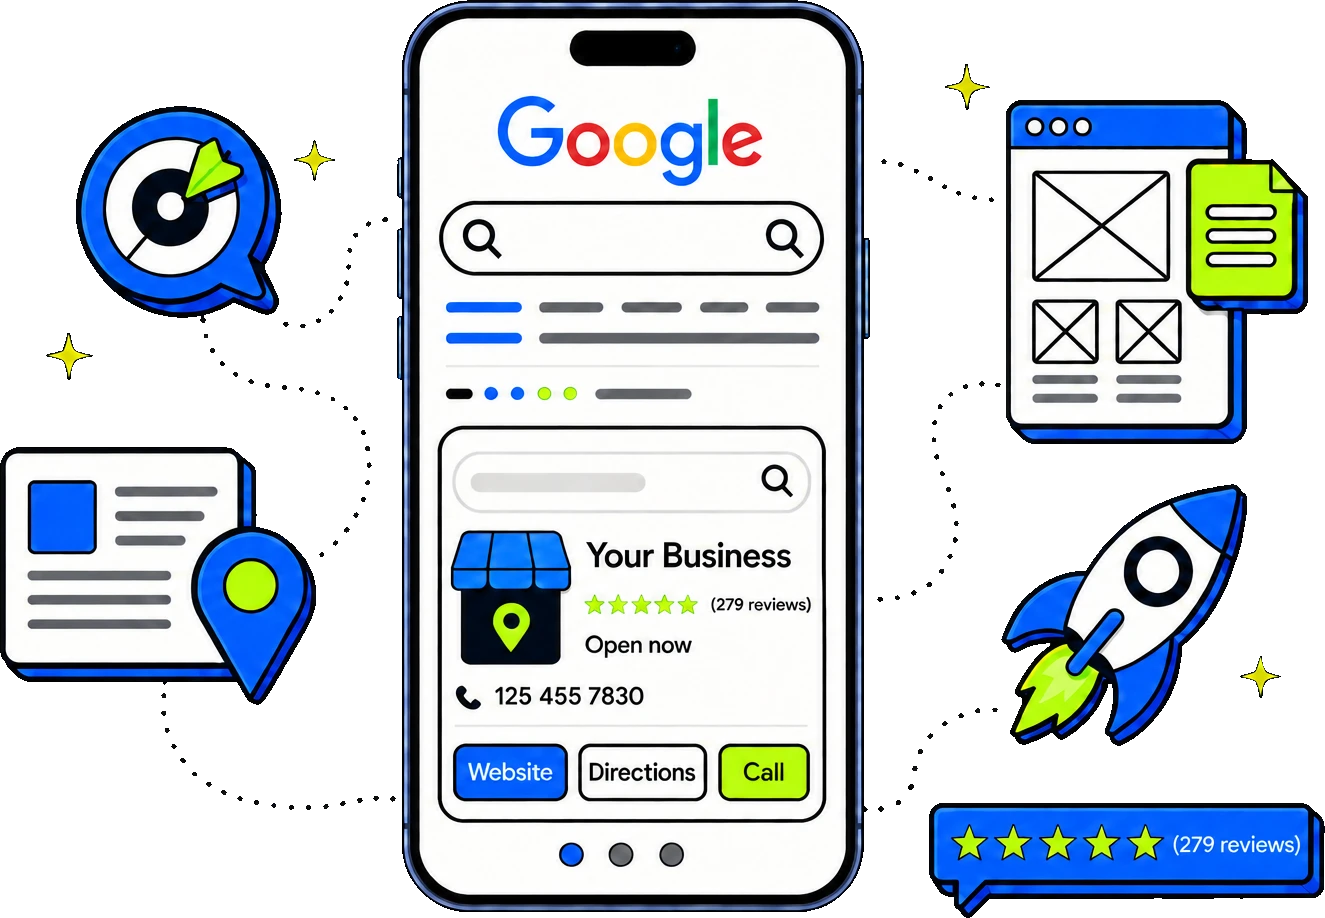
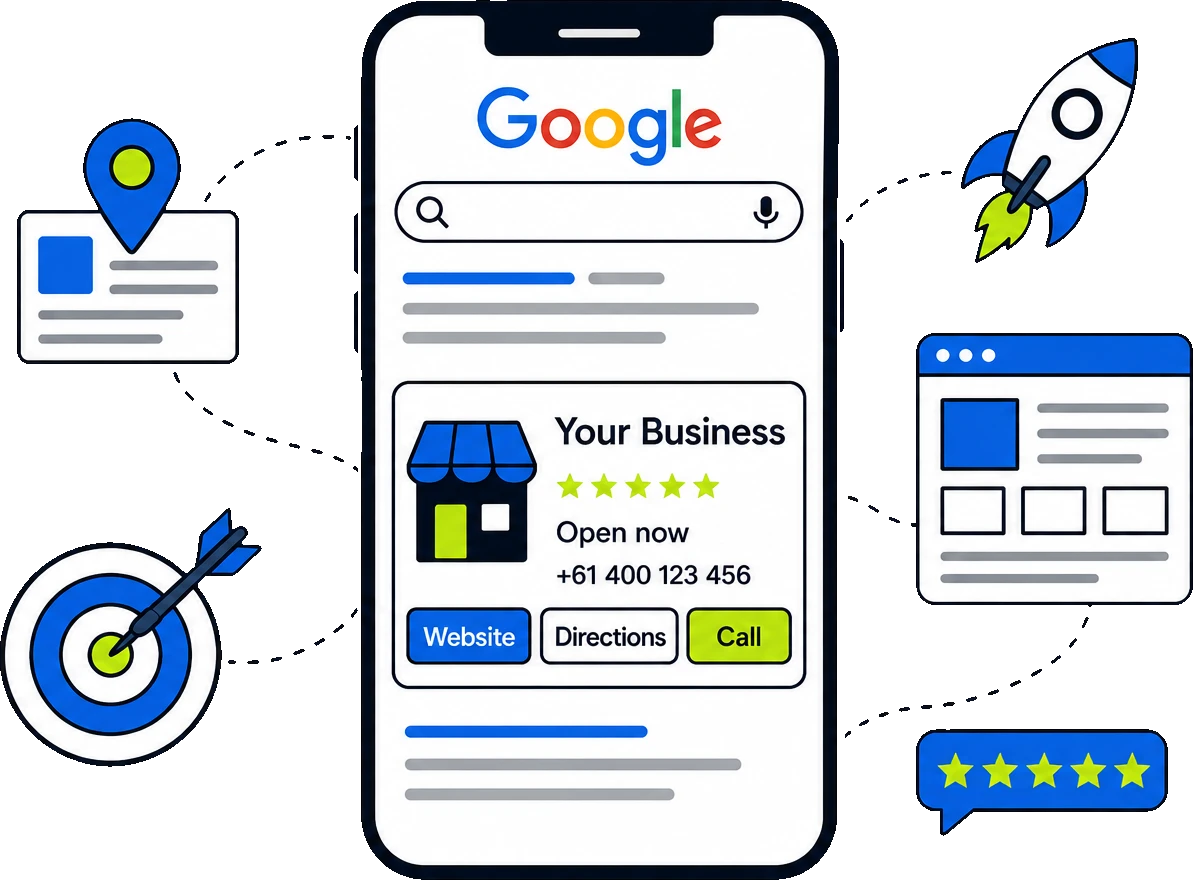
Deploy: sync site from workspace @ 9fd9e81

diff --git a/es/index.html b/es/index.html
@@ -181,8 +181,8 @@
 </section>
 
 <!-- ================= 03 GOOGLE — asset 10 — TEXT / IMAGE =================
-     Asset 10 is a concept illustration. Its embedded 5 stars, "(279 reviews)"
-     (twice) and the phone number 125 455 7830 are mock-up content: never repeated in HTML,
+     Asset 10 is a concept illustration. Its embedded 5 stars, "Open now" and the
+     phone number +61 400 123 456 are mock-up content: never repeated in HTML,
      never presented as results, never actionable.
      The visible caption that said so was REMOVED 2026-08-07 at JP's direction.
      That is a decision, not an oversight — do not reinstate it without asking.
@@ -204,7 +204,7 @@
     </div>
     <figure data-rise="right">
       <img src="../assets/google-presence.webp"
-           alt="Ilustraci&oacute;n conceptual de un tel&eacute;fono con una b&uacute;squeda de Google y la ficha de perfil de empresa de un negocio de ejemplo, rodeada de un marcador de mapa, un cohete y una insignia de rese&ntilde;as.">
+           alt="Ilustraci&oacute;n conceptual de un tel&eacute;fono con una b&uacute;squeda de Google y la ficha de perfil de empresa de un negocio de ejemplo, rodeada de un marcador de mapa, una diana, un cohete, una maqueta de p&aacute;gina y una insignia de rese&ntilde;as.">
     </figure>
   </div>
 </section>

diff --git a/index.html b/index.html
@@ -185,8 +185,8 @@
 </section>
 
 <!-- ================= 03 GOOGLE — asset 10 — TEXT / IMAGE =================
-     Asset 10 is a concept illustration. Its embedded 5 stars, "(279 reviews)"
-     (twice) and the phone number 125 455 7830 are mock-up content: never repeated in HTML,
+     Asset 10 is a concept illustration. Its embedded 5 stars, "Open now" and the
+     phone number +61 400 123 456 are mock-up content: never repeated in HTML,
      never presented as results, never actionable.
      The visible caption that said so was REMOVED 2026-08-07 at JP's direction.
      That is a decision, not an oversight — do not reinstate it without asking.
@@ -208,7 +208,7 @@
     </div>
     <figure data-rise="right">
       <img src="assets/google-presence.webp"
-           alt="Concept illustration of a phone showing a Google search and the business profile card of a placeholder business, with a map pin, a rocket and a review badge around it.">
+           alt="Concept illustration of a phone showing a Google search and the business profile card of a placeholder business, with a map pin, a target, a rocket, a page layout and a review badge around it.">
     </figure>
   </div>
 </section>
